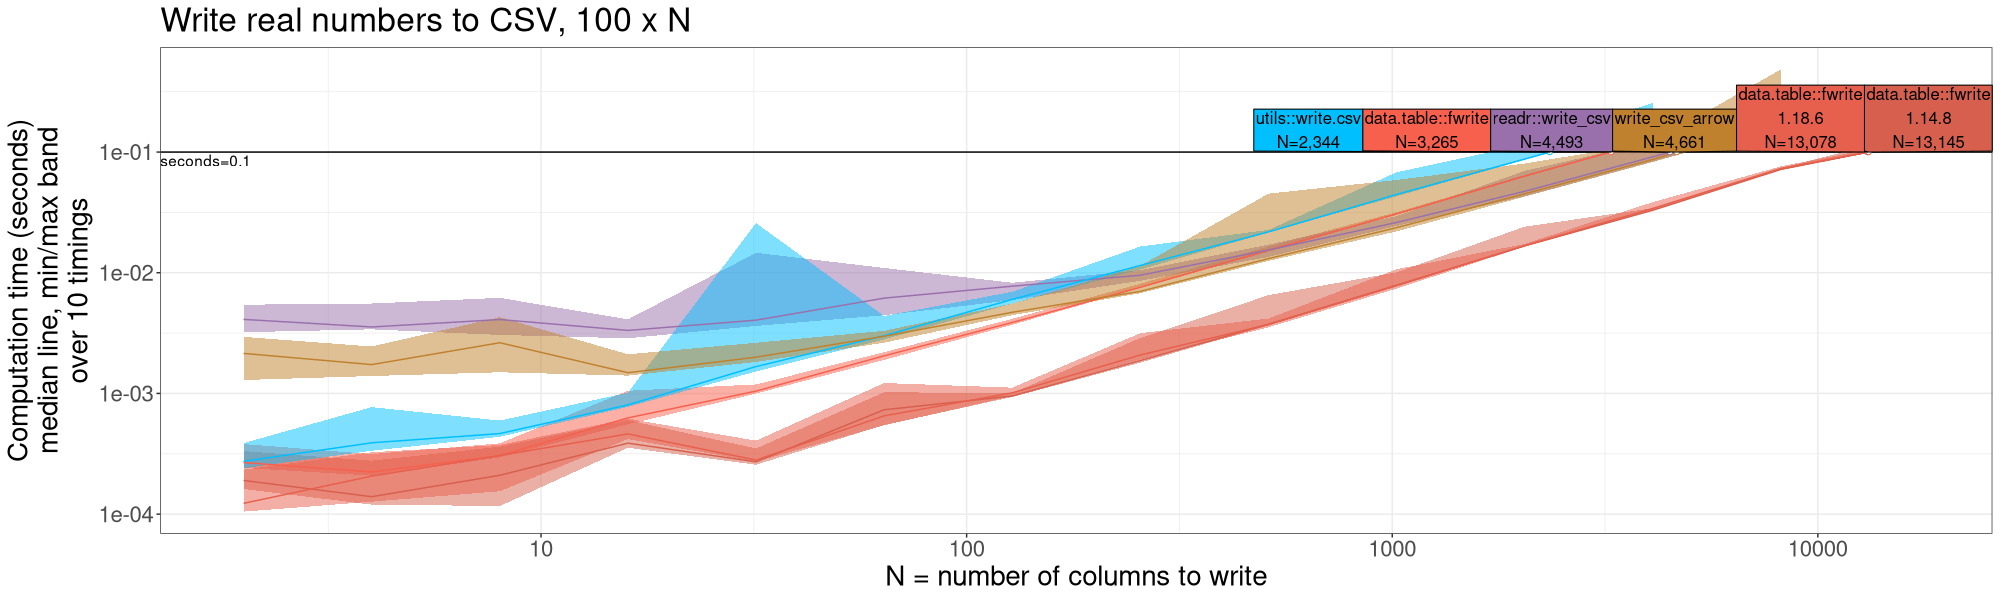
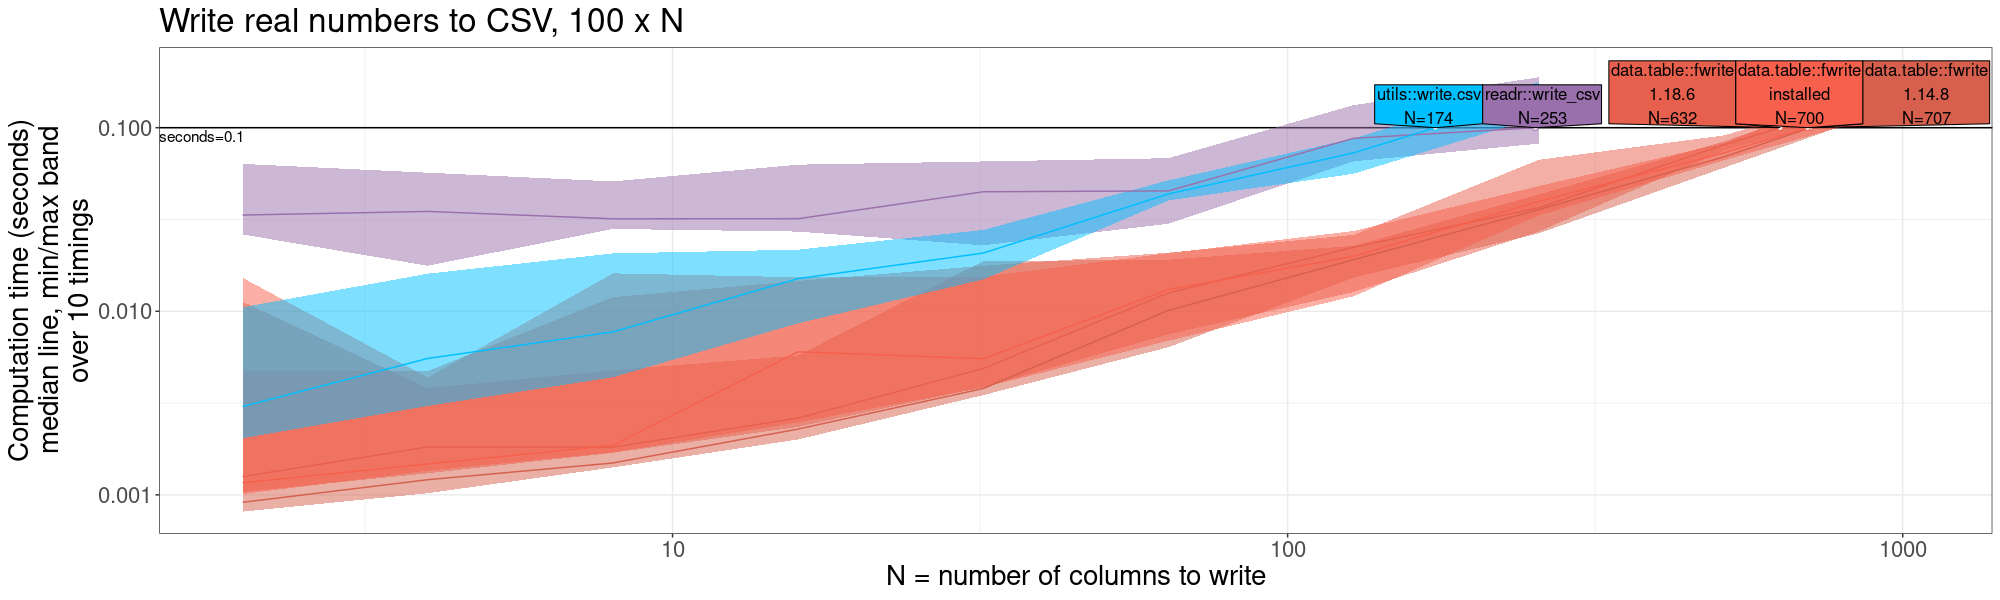
old laptop results

diff --git a/_posts/2026-10-07-dt-atime-update.md b/_posts/2026-10-07-dt-atime-update.md
@@ -209,37 +209,62 @@ Below we define two versions of data table to test: current release is 1.18.6, a
 
 
 ``` r
-dt.vers <- list("1.18.6", "1.14.8")
+dt.vers <- c("1.18.6", "1.14.8", installed="")
+names(dt.vers) <- ifelse(names(dt.vers)=="", dt.vers, names(dt.vers))
 ```
 
 Next we define a function which generates a list of R expressions to test (one element for each version of data table).
 
 
 ``` r
-dt_exprs <- function(name, expr){
-  dt.exprs <- do.call(atime::atime_versions_exprs, c(list(
+dt_exprs <- function(e){
+  expr <- substitute(e)
+  names(dt.vers) <- paste0(
+    format(expr[[2]][[1]]),
+    "\n",
+    names(dt.vers))
+  atime::atime_versions_exprs(
     "~/R/data.table",
     pkg.edit.fun=edit.data.table,
-    expr=substitute(expr),
-    setNames(dt.vers, dt.vers))))
-  names(dt.exprs) <- paste0(name, "\n", names(dt.exprs))
-  dt.exprs
+    expr=expr,
+    sha.vec=dt.vers)
 }
-(dt.write.exprs <- dt_exprs(
-  "data.table::fwrite",
-  data.table::fwrite(input.df, tempfile(), showProgress = FALSE)))
+(dt.write.exprs <- dt_exprs({
+  data.table::fwrite(input.df, tempfile(), showProgress = FALSE)
+}))
 ```
 
 ```
 ## $`data.table::fwrite\n1.18.6`
-## data.table.1.18.6::fwrite(input.df, tempfile(), showProgress = FALSE)
+## {
+##     data.table.1.18.6::fwrite(input.df, tempfile(), showProgress = FALSE)
+## }
 ## 
 ## $`data.table::fwrite\n1.14.8`
-## data.table.1.14.8::fwrite(input.df, tempfile(), showProgress = FALSE)
+## {
+##     data.table.1.14.8::fwrite(input.df, tempfile(), showProgress = FALSE)
+## }
+## 
+## $`data.table::fwrite\ninstalled`
+## {
+##     data.table::fwrite(input.df, tempfile(), showProgress = FALSE)
+## }
 ```
 
 Now we compute timings of writing some random normal data to CSV.
 
+
+``` r
+if(requireNamespace("arrow")){
+  dt.write.exprs$write_csv_arrow <-quote(
+    arrow::write_csv_arrow(input.df, tempfile())
+  )
+}
+```
+
+```
+## Le chargement a nécessité le package : arrow
+```
 
 ``` r
 atime.write.vary.cols <- atime::atime(
@@ -251,12 +276,6 @@ atime.write.vary.cols <- atime::atime(
   },
   seconds.limit = seconds.limit,
   expr.list=dt.write.exprs,
-  "data.table::fwrite"={
-    data.table::fwrite(input.df, tempfile(), showProgress = FALSE)
-  },
-  "write_csv_arrow"={
-    arrow::write_csv_arrow(input.df, tempfile())
-  },
   "readr::write_csv"={
     readr::write_csv(input.df, tempfile(), progress = FALSE)
   },
@@ -268,7 +287,7 @@ write.colors <- c(
   "readr::write_csv"="#9970AB",
   "data.table::fwrite\n1.14.8"="#D6604D",
   "data.table::fwrite\n1.18.6"="#E7604D",
-  "data.table::fwrite"="#F7604D",
+  "data.table::fwrite\ninstalled"="#F7604D",
   "write_csv_arrow"="#BF812D", 
   "utils::write.csv"="deepskyblue")
 gg.write <- plot(pred.write.vary.cols)+
@@ -286,6 +305,9 @@ over 10 timings")+
 ```
 ## Scale for x is already present.
 ## Adding another scale for x, which will replace the existing scale.
+```
+
+```
 ## Scale for y is already present.
 ## Adding another scale for y, which will replace the existing scale.
 ```
@@ -295,8 +317,8 @@ gg.write
 ```
 
 ```
-## Warning in scale_x_log10("N = number of columns to write"): log-10 transformation introduced infinite
-## values.
+## Warning in scale_x_log10("N = number of columns to write"): log-10
+## transformation introduced infinite values.
 ```
 
 ![plot of chunk write](/assets/img/2026-10-07-dt-atime-update/write-1.png)
@@ -312,10 +334,10 @@ tfgrid <- function(param, ...)atime::atime_grid(
   setNames(list(c(TRUE,FALSE)), param),
   ..., expr.param.sep="\n")
 (expr.list <- c(
-  dt_exprs(
-    "data.table::fread",
-    data.table::fread(input.csv, showProgress = FALSE)),
-  tfgrid(
+  dt_exprs({
+    data.table::fread(input.csv, showProgress = FALSE)
+  }),
+  if(requireNamespace("arrow"))tfgrid(
     "asDF",
     read_csv_arrow={
       ## https://francoismichonneau.net/2022/10/import-big-csv/
@@ -329,20 +351,23 @@ tfgrid <- function(param, ...)atime::atime_grid(
 ```
 
 ```
+## Le chargement a nécessité le package : arrow
+```
+
+```
 ## $`data.table::fread\n1.18.6`
-## data.table.1.18.6::fread(input.csv, showProgress = FALSE)
-## 
-## $`data.table::fread\n1.14.8`
-## data.table.1.14.8::fread(input.csv, showProgress = FALSE)
-## 
-## $`read_csv_arrow\nasDF=FALSE`
 ## {
-##     arrow::read_csv_arrow(input.csv, as_data_frame = FALSE)
+##     data.table.1.18.6::fread(input.csv, showProgress = FALSE)
 ## }
 ## 
-## $`read_csv_arrow\nasDF=TRUE`
+## $`data.table::fread\n1.14.8`
 ## {
-##     arrow::read_csv_arrow(input.csv, as_data_frame = TRUE)
+##     data.table.1.14.8::fread(input.csv, showProgress = FALSE)
+## }
+## 
+## $`data.table::fread\ninstalled`
+## {
+##     data.table::fread(input.csv, showProgress = FALSE)
 ## }
 ## 
 ## $`readr::read_csv\nlazy=FALSE`
@@ -366,10 +391,7 @@ atime.read.vary.cols <- atime::atime(
     input.mat <- matrix(input.vec, n.rows, N)
     input.df <- data.frame(input.mat)
     input.csv <- tempfile()
-    fwrite(input.df, input.csv)
-  },
-  "data.table::fread"={
-    data.table::fread(input.csv, showProgress = FALSE)
+    data.table::fwrite(input.df, input.csv)
   },
   seconds.limit = seconds.limit,
   expr.list = expr.list,
@@ -382,7 +404,7 @@ read.colors <- c(
   "readr::read_csv\nlazy=FALSE"="#99909B",
   "data.table::fread\n1.14.8"="#D6604D",
   "data.table::fread\n1.18.6"="#E7604D",
-  "data.table::fread"="#F7604D",
+  "data.table::fread\ninstalled"="#F7604D",
   "read_csv_arrow\nasDF=TRUE"="#BF812D", 
   "read_csv_arrow\nasDF=FALSE"="#9F912D", 
   "utils::read.csv"="deepskyblue")
@@ -401,6 +423,9 @@ over 10 timings")+
 ```
 ## Scale for x is already present.
 ## Adding another scale for x, which will replace the existing scale.
+```
+
+```
 ## Scale for y is already present.
 ## Adding another scale for y, which will replace the existing scale.
 ```
@@ -410,8 +435,8 @@ gg.read
 ```
 
 ```
-## Warning in scale_x_log10("N = number of columns to read"): log-10 transformation introduced infinite
-## values.
+## Warning in scale_x_log10("N = number of columns to read"): log-10
+## transformation introduced infinite values.
 ```
 
 ![plot of chunk read](/assets/img/2026-10-07-dt-atime-update/read-1.png)
@@ -435,14 +460,8 @@ benchmarkme::get_cpu()
 ```
 
 ```
-## $vendor_id
-## [1] "GenuineIntel"
-## 
-## $model_name
-## [1] "Intel(R) Core(TM) Ultra 5 125U"
-## 
-## $no_of_cores
-## [1] 14
+## Error in `loadNamespace()`:
+## ! aucun package nommé 'benchmarkme' n'est trouvé
 ```
 
 ``` r
@@ -450,53 +469,51 @@ sessionInfo()
 ```
 
 ```
-## R Under development (unstable) (2026-07-28 r90311)
+## R Under development (unstable) (2026-09-16 r90549)
 ## Platform: x86_64-pc-linux-gnu
-## Running under: Ubuntu 24.04.5 LTS
+## Running under: Ubuntu 22.04.5 LTS
 ## 
 ## Matrix products: default
-## BLAS:   /usr/lib/x86_64-linux-gnu/blas/libblas.so.3.12.0 
-## LAPACK: /usr/lib/x86_64-linux-gnu/lapack/liblapack.so.3.12.0  LAPACK version 3.12.0
+## BLAS:   /usr/lib/x86_64-linux-gnu/blas/libblas.so.3.10.0 
+## LAPACK: /usr/lib/x86_64-linux-gnu/lapack/liblapack.so.3.10.0  LAPACK version 3.10.0
 ## 
 ## locale:
-##  [1] LC_CTYPE=en_US.UTF-8       LC_NUMERIC=C               LC_TIME=fr_FR.UTF-8       
-##  [4] LC_COLLATE=en_US.UTF-8     LC_MONETARY=fr_FR.UTF-8    LC_MESSAGES=en_US.UTF-8   
-##  [7] LC_PAPER=fr_FR.UTF-8       LC_NAME=C                  LC_ADDRESS=C              
-## [10] LC_TELEPHONE=C             LC_MEASUREMENT=fr_FR.UTF-8 LC_IDENTIFICATION=C       
+##  [1] LC_CTYPE=fr_FR.UTF-8       LC_NUMERIC=C              
+##  [3] LC_TIME=fr_FR.UTF-8        LC_COLLATE=fr_FR.UTF-8    
+##  [5] LC_MONETARY=fr_FR.UTF-8    LC_MESSAGES=fr_FR.UTF-8   
+##  [7] LC_PAPER=fr_FR.UTF-8       LC_NAME=C                 
+##  [9] LC_ADDRESS=C               LC_TELEPHONE=C            
+## [11] LC_MEASUREMENT=fr_FR.UTF-8 LC_IDENTIFICATION=C       
 ## 
 ## time zone: America/Toronto
 ## tzcode source: system (glibc)
 ## 
 ## attached base packages:
-## [1] stats     graphics  grDevices utils     datasets  methods   base     
+## [1] stats     graphics  utils     datasets  grDevices methods   base     
 ## 
 ## other attached packages:
-## [1] atime_2026.10.7 testthat_3.3.2  ggplot2_4.0.3  
+## [1] atime_2026.9.17 ggplot2_4.0.3  
 ## 
 ## loaded via a namespace (and not attached):
-##  [1] benchmarkmeData_2.0.0      gtable_0.3.6               xfun_0.61                 
-##  [4] devtools_2.5.2             bench_1.1.4                lattice_0.23-1            
-##  [7] tzdb_0.5.0                 vctrs_0.7.3                tools_4.7.0               
-## [10] generics_0.1.4             parallel_4.7.0             tibble_3.3.1              
-## [13] pkgconfig_2.0.3            data.table.1.14.8_1.14.8   Matrix_1.7-6              
-## [16] data.table_1.18.6.1        RColorBrewer_1.1-3         S7_0.2.2                  
-## [19] desc_1.4.3                 assertthat_0.2.1           lifecycle_1.0.5           
-## [22] stringr_1.6.0              compiler_4.7.0             farver_2.1.2              
-## [25] credentials_2.0.3          brio_1.1.5                 codetools_0.2-20          
-## [28] sys_3.4.3                  usethis_3.2.2              profmem_0.7.0             
-## [31] pillar_1.11.1              crayon_1.5.3               ellipsis_0.3.3            
-## [34] openssl_2.4.2              cachem_1.1.0               sessioninfo_1.2.4         
-## [37] iterators_1.0.14           foreach_1.5.2              tidyselect_1.2.1          
-## [40] stringi_1.8.9              dplyr_1.2.1                purrr_1.2.2               
-## [43] arrow_25.0.1               rprojroot_2.1.1            fastmap_1.2.0             
-## [46] grid_4.7.0                 cli_3.6.6                  magrittr_2.0.5            
-## [49] pkgbuild_1.4.8             readr_2.2.0                withr_3.0.3               
-## [52] scales_1.4.0               bit64_4.8.6                httr_1.4.9                
-## [55] data.table.1.18.6_1.18.6.1 bit_4.6.0                  otel_0.2.0                
-## [58] benchmarkme_1.0.8          askpass_1.2.1              hms_1.1.4                 
-## [61] evaluate_1.0.5             memoise_2.0.1              knitr_1.52                
-## [64] doParallel_1.0.17          rlang_1.3.0                gert_2.4.1                
-## [67] Rcpp_1.1.2                 glue_1.8.1                 directlabels_2026.8.28    
-## [70] pkgload_1.5.3              rstudioapi_0.19.0          vroom_1.7.1               
-## [73] R6_2.6.1                   fs_2.1.0
+##  [1] bit_4.6.0                  gtable_0.3.6              
+##  [3] dplyr_1.2.1                compiler_4.7.0            
+##  [5] crayon_1.5.3               Rcpp_1.1.2                
+##  [7] tidyselect_1.2.1           scales_1.4.0              
+##  [9] directlabels_2026.8.27     lattice_0.23-1            
+## [11] readr_2.2.0                R6_2.6.1                  
+## [13] generics_0.1.4             knitr_1.52                
+## [15] tibble_3.3.1               pillar_1.11.1             
+## [17] RColorBrewer_1.1-3         tzdb_0.5.0                
+## [19] rlang_1.3.0                xfun_0.61                 
+## [21] S7_0.2.2                   otel_0.2.0                
+## [23] bit64_4.8.6                cli_3.6.6                 
+## [25] withr_3.0.3                magrittr_2.0.5            
+## [27] grid_4.7.0                 vroom_1.7.1               
+## [29] hms_1.1.4                  lifecycle_1.0.5           
+## [31] data.table.1.18.6_1.18.6.1 vctrs_0.7.3               
+## [33] bench_1.1.4                evaluate_1.0.5            
+## [35] glue_1.8.1                 data.table_1.18.6.1       
+## [37] farver_2.1.2               data.table.1.14.8_1.14.8  
+## [39] profmem_0.7.0              tools_4.7.0               
+## [41] pkgconfig_2.0.3
 ```
